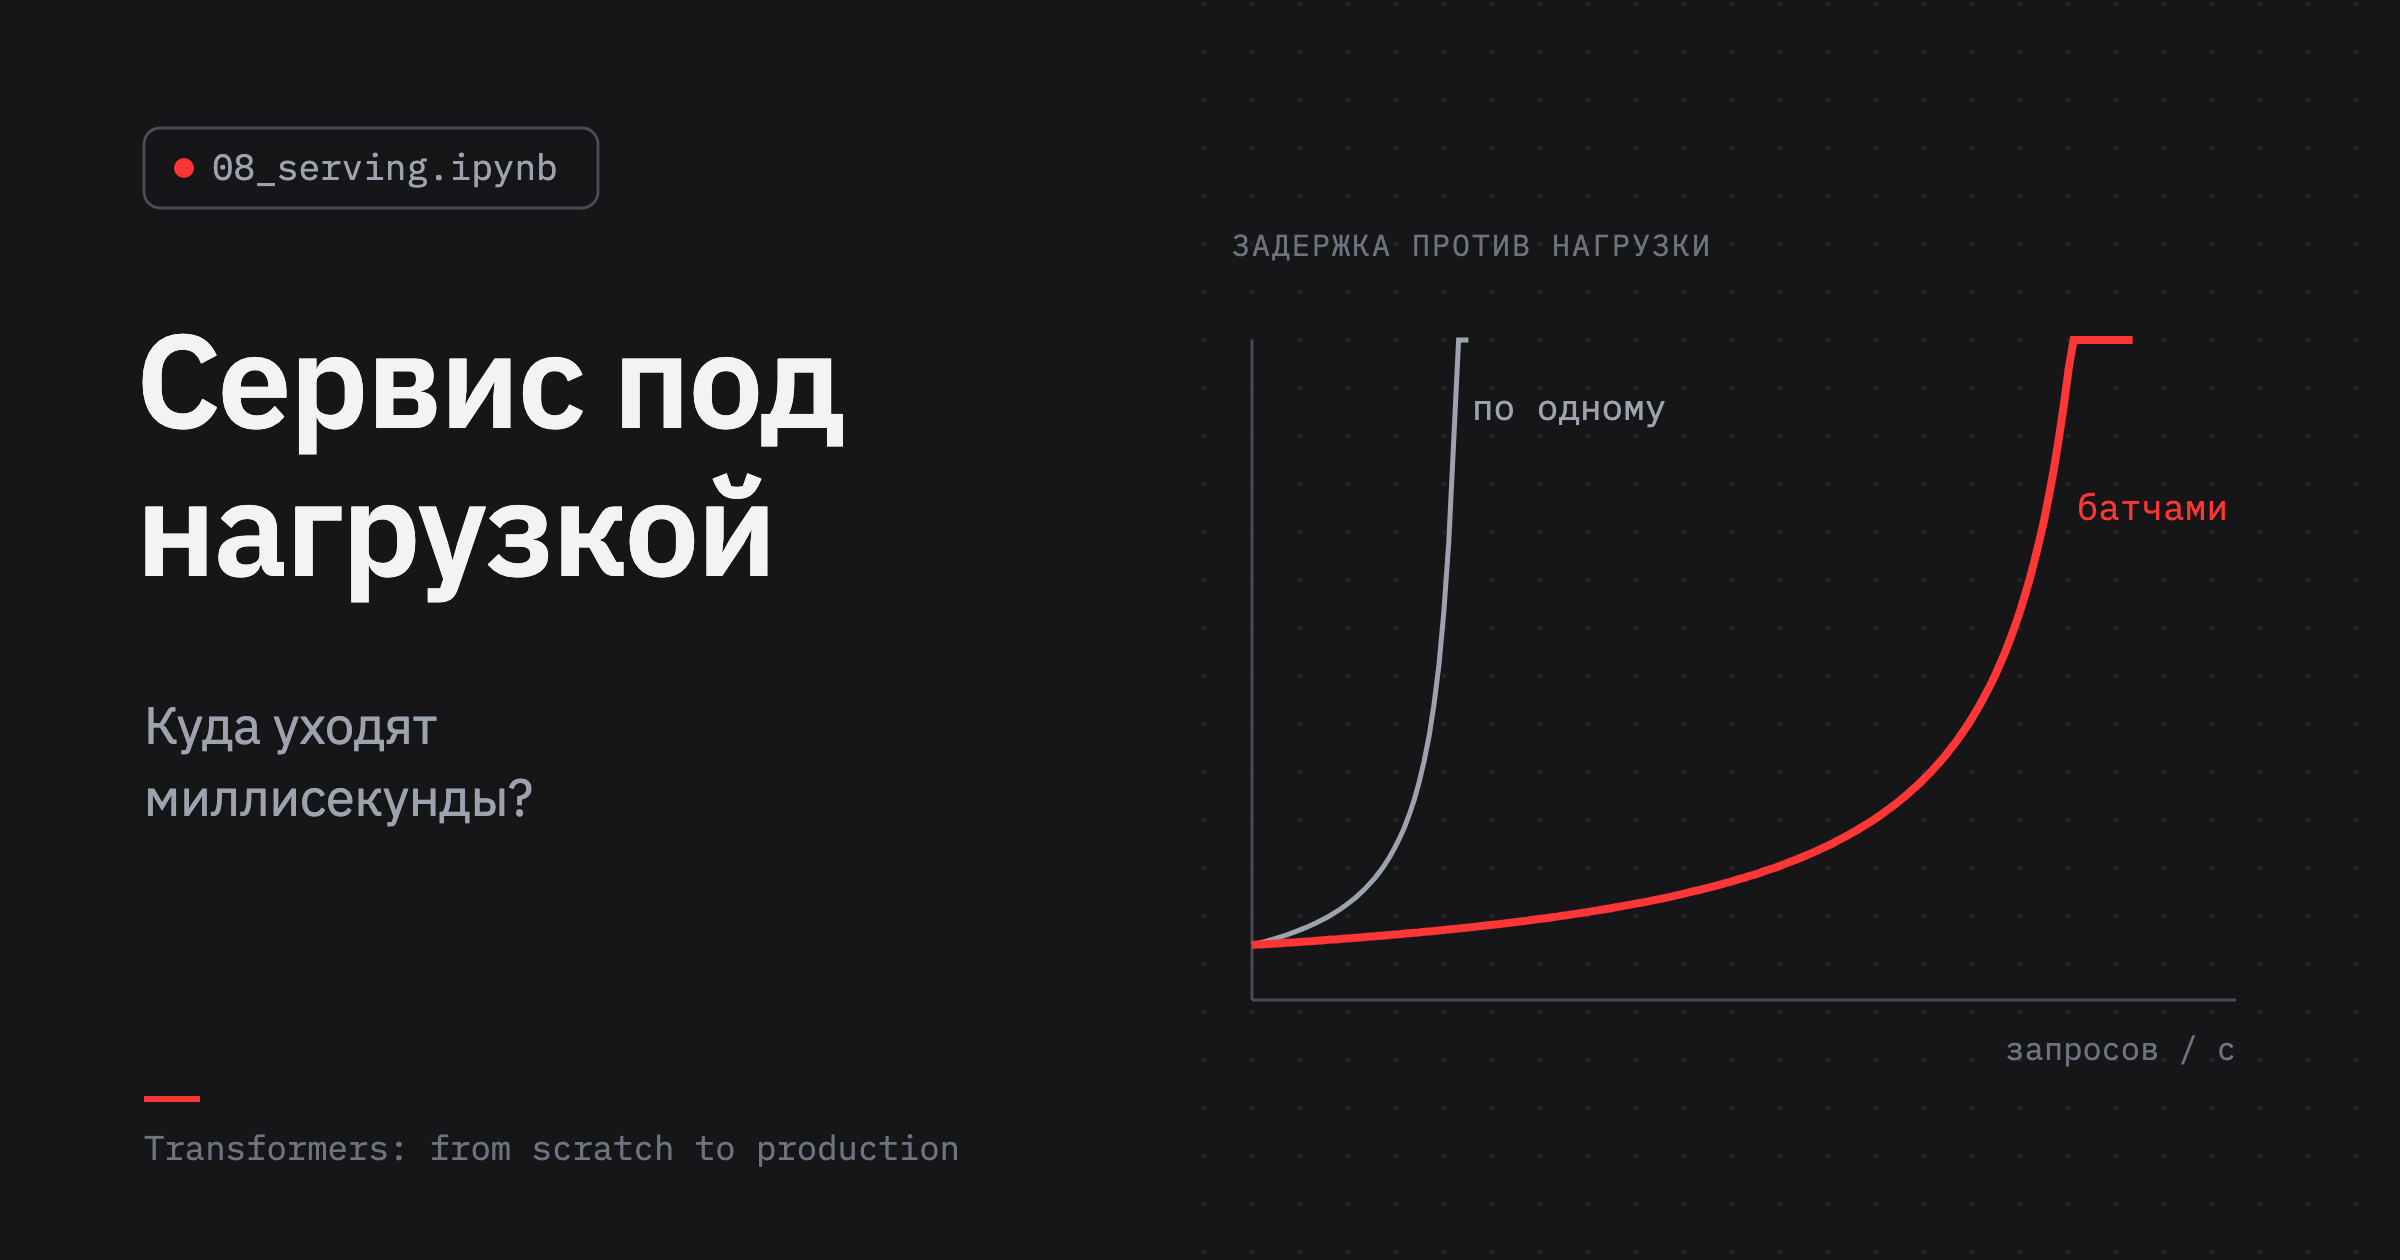
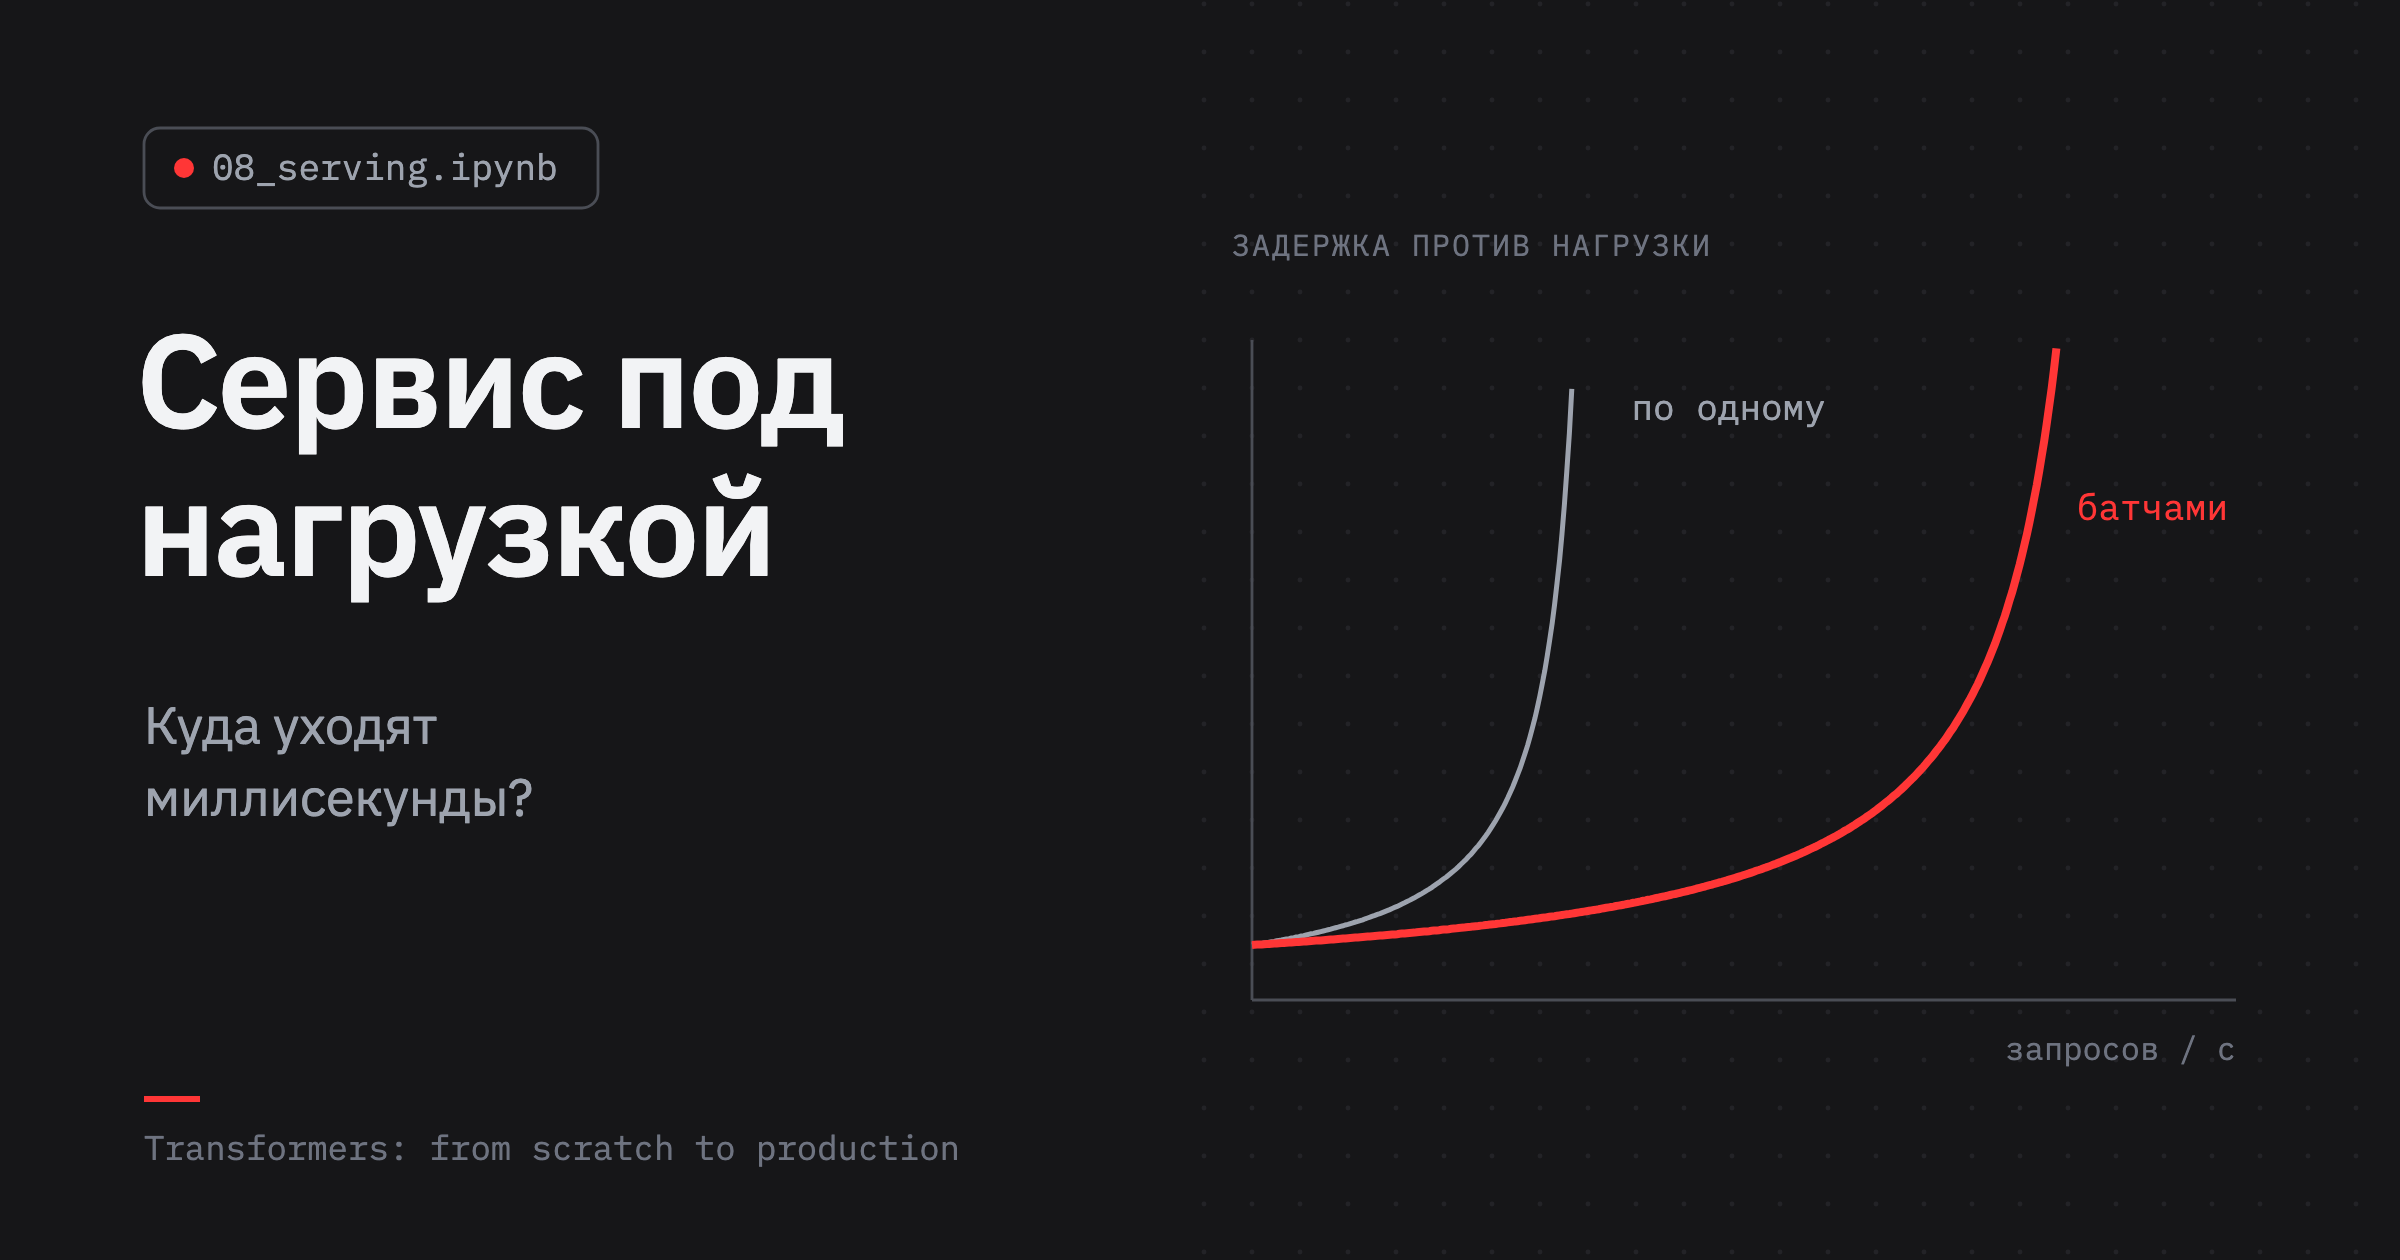
lesson 8 cover: batching holds out to the measured 2.5 times, not 4; curves end at the top edge

diff --git a/lessons/08_serving/figures.py b/lessons/08_serving/figures.py
@@ -322,18 +322,19 @@ def _cover(lang):
     x0, x1, y0, y1 = cv.MOTIF_X0 + 10, cv.MOTIF_X1 - 10, 500, 170
     out.append(f'<line x1="{x0}" y1="{y0}" x2="{x1}" y2="{y0}" stroke="{cv.LINE}" stroke-width="1.4"/>')
     out.append(f'<line x1="{x0}" y1="{y0}" x2="{x0}" y2="{y1}" stroke="{cv.LINE}" stroke-width="1.4"/>')
-    for capacity, colour, width in [(1.0, cv.MUTED, 2.5), (4.0, cv.RED, 4)]:
+    top_rate = 2.8  # batching measured about 2.5 times the capacity of one request at a time
+    for capacity, colour, width in [(1.0, cv.MUTED, 2.5), (2.5, cv.RED, 4)]:
         points = []
-        for k in range(200):
-            rate = 4.4 * k / 200
-            rho = rate / capacity
-            if rho >= 0.985:
+        for k in range(400):
+            rate = top_rate * k / 400
+            latency = 1 / (1 - rate / capacity) if rate < capacity else float("inf")
+            if latency > 12:  # the curve leaves the top of the plot
                 break
-            latency = 1 / (1 - rho)
-            points.append((x0 + (x1 - x0) * rate / 4.4, y0 - (y0 - y1) * min(latency, 12) / 12))
+            points.append((x0 + (x1 - x0) * rate / top_rate, y0 - (y0 - y1) * latency / 12))
         path = " ".join(f"{x:.1f},{y:.1f}" for x, y in points)
         out.append(f'<polyline points="{path}" fill="none" stroke="{colour}" stroke-width="{width}"/>')
-    out.append(cv.text(x0 + 110, y1 + 40, "one at a time" if english else "по одному", 18, cv.MUTED, cv.MONO))
+    wall = x0 + (x1 - x0) / top_rate  # where one request at a time runs out of capacity
+    out.append(cv.text(wall + 14, y1 + 40, "one at a time" if english else "по одному", 18, cv.MUTED, cv.MONO))
     out.append(cv.text(x1 - 4, y1 + 90, "batched" if english else "батчами", 18, cv.RED, cv.MONO, anchor="end"))
     out.append(cv.text(x1, y0 + 30, "requests / s" if english else "запросов / с", 16, cv.FAINT, cv.MONO,
                        anchor="end"))
